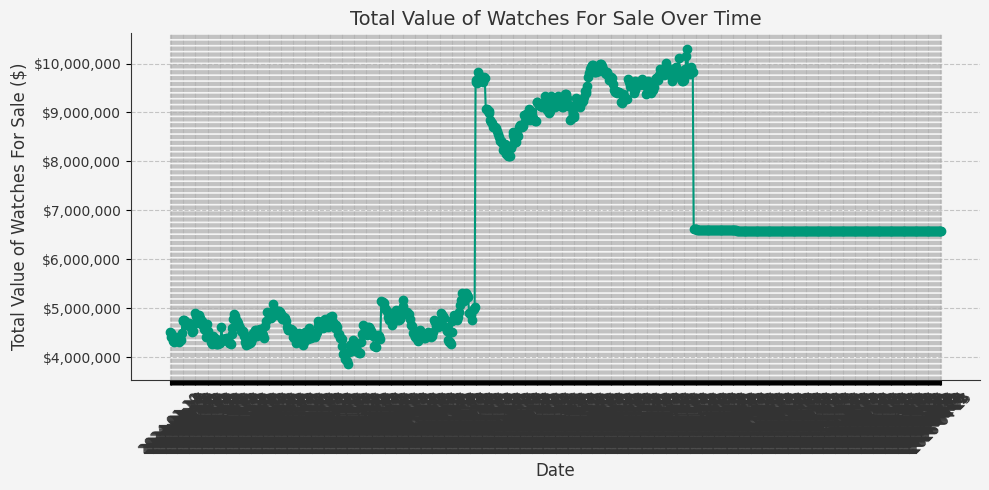
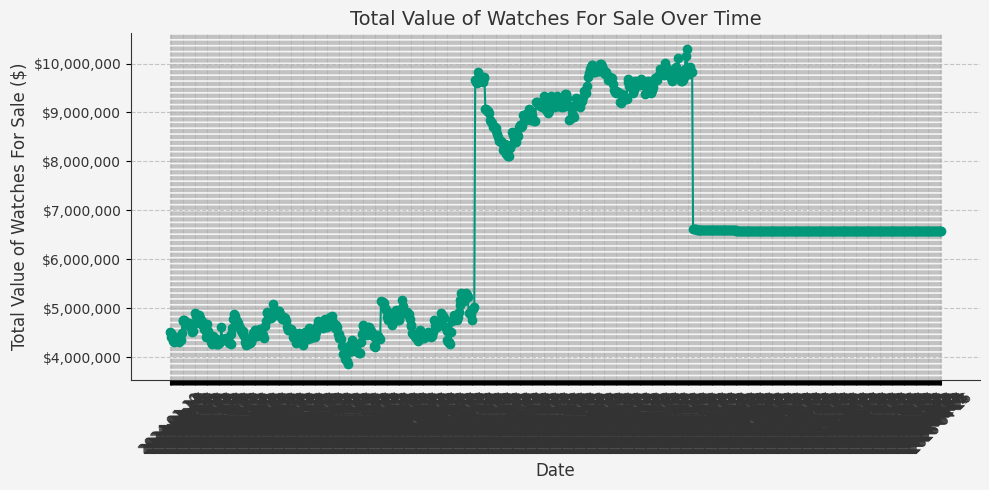
Update docs, portfolio image and portfolio statistics

diff --git a/docs/index.html b/docs/index.html
@@ -54,7 +54,7 @@
     </style>
 </head>
 <body>
-    <h1>Watch Data Report - 2026-04-25</h1>
+    <h1>Watch Data Report - 2026-04-26</h1>
     <div class="stats">
         <h3>Summary Statistics</h3>
         <p>Value of sold Watches: $0.00</p>